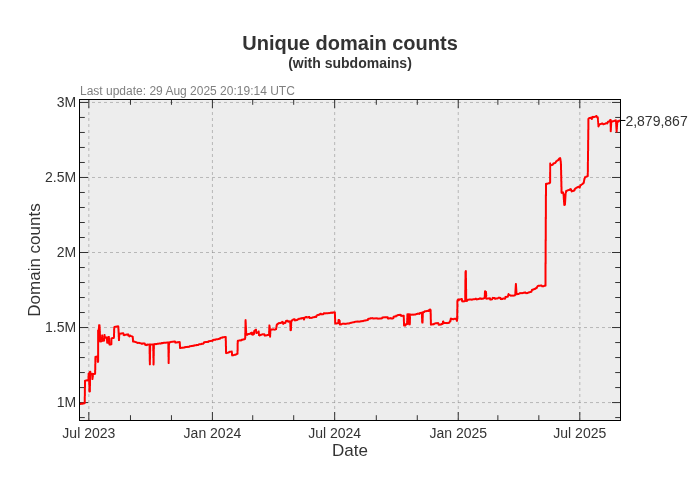
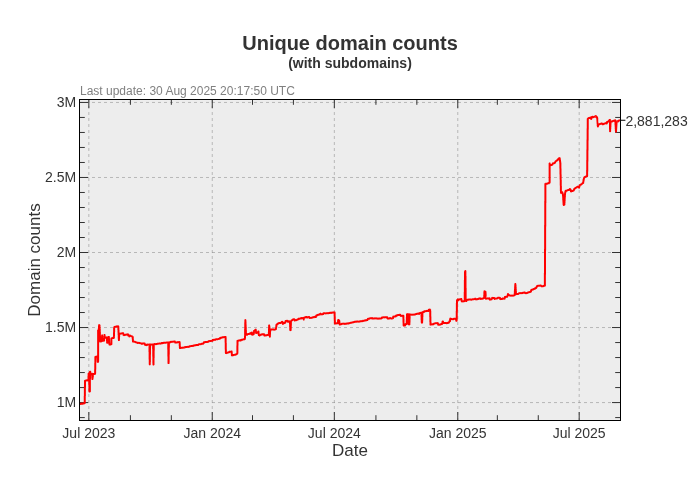
Update pages

diff --git a/README.md b/README.md
@@ -3,22 +3,22 @@ A blocklist file for blocking ads, trackers and malware domains.
 
[1 lines of base64/hex data omitted]
 
-- Unique domains: 2,879,867
-- Without subdomains: 2,196,786
-- Last update: 29 Aug 2025 20:19:14 UTC
-- Version: 2025.08.29.01
+- Unique domains: 2,881,283
+- Without subdomains: 2,198,135
+- Last update: 30 Aug 2025 20:17:50 UTC
+- Version: 2025.08.30.01
 
 
 ### Downloads:
 
 | Format             | Domain count      | Download Link |
 |:------------------ | -----------------:|:-------------:|
-| *Adblock Plus*     | 2,196,786 | [Download](https://dl.cenk.app/bad-hosts/bad-hosts-abp) |
-| *Wildcard domains* | 2,196,786 | [Download](https://dl.cenk.app/bad-hosts/bad-hosts-wildcard) |
-| *dnsmasq*          | 2,196,786 | [Download](https://dl.cenk.app/bad-hosts/bad-hosts-dnsmasq) |
-| *hosts*            | 2,879,867 | [Download](https://dl.cenk.app/bad-hosts/hosts) |
-| *hosts (ipv6)*     | 2,879,867 | [Download](https://dl.cenk.app/bad-hosts/hosts-ipv6) |
-| *Plain domains*    | 2,879,867 | [Download](https://dl.cenk.app/bad-hosts/bad-hosts-domains) |
+| *Adblock Plus*     | 2,198,135 | [Download](https://dl.cenk.app/bad-hosts/bad-hosts-abp) |
+| *Wildcard domains* | 2,198,135 | [Download](https://dl.cenk.app/bad-hosts/bad-hosts-wildcard) |
+| *dnsmasq*          | 2,198,135 | [Download](https://dl.cenk.app/bad-hosts/bad-hosts-dnsmasq) |
+| *hosts*            | 2,881,283 | [Download](https://dl.cenk.app/bad-hosts/hosts) |
+| *hosts (ipv6)*     | 2,881,283 | [Download](https://dl.cenk.app/bad-hosts/hosts-ipv6) |
+| *Plain domains*    | 2,881,283 | [Download](https://dl.cenk.app/bad-hosts/bad-hosts-domains) |
 
 ### Domain count history
 #### With subdomains
